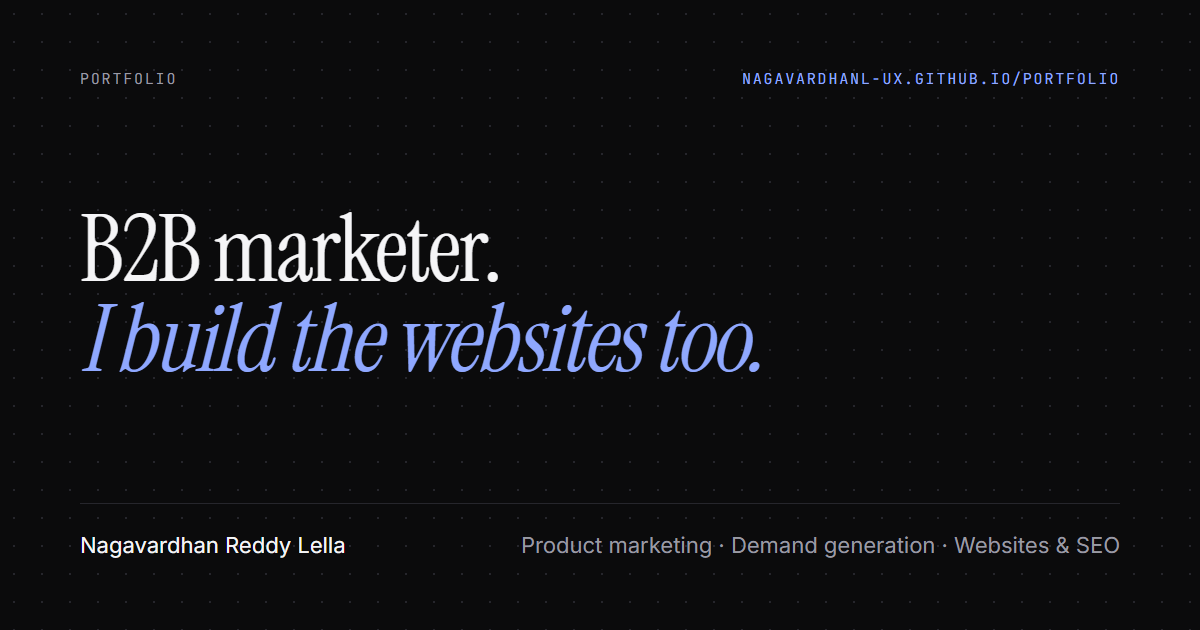
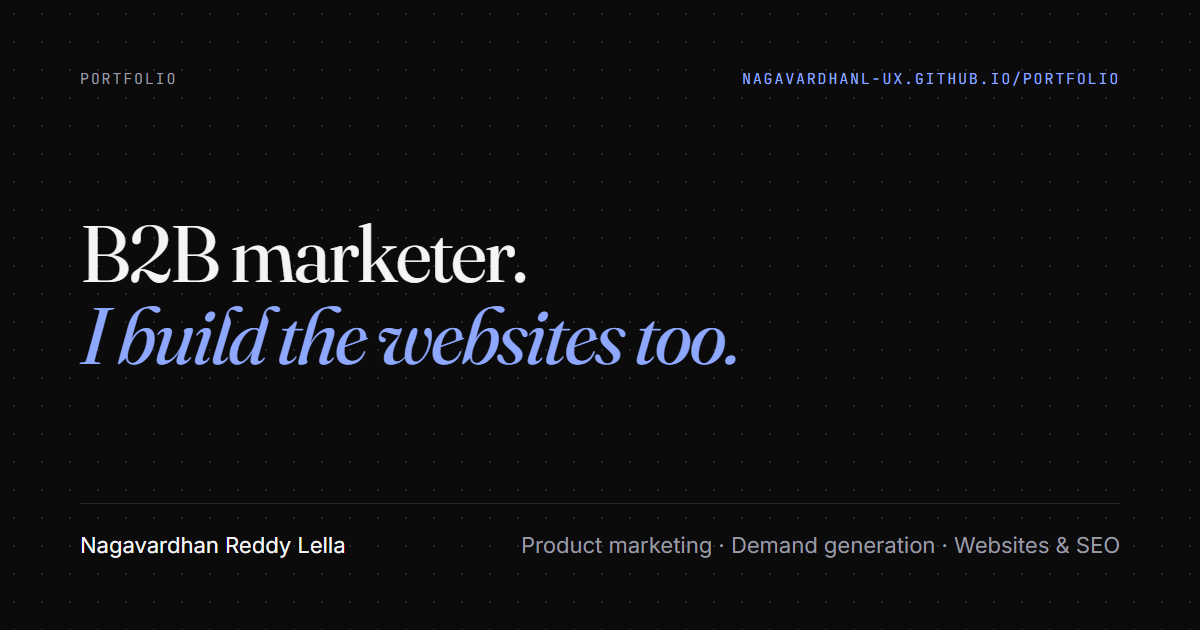
Fonts: Fraunces display, Inter body, JetBrains Mono numbers and labels
- Fraunces (variable, optical-size axis) for headings at 600, hero at 400;
  sizes retuned for its wider set; Georgia/serif fallback
- JetBrains Mono for markers, tags and large numerals; Inter unchanged
- All three via next/font (Google Fonts, self-hosted at build, swap)
- OG image regenerated in Fraunces
- Hide the wordmark suffix under 480px so the nav fits at 390px

Changed region(s): [[0.0617, 0.4825, 0.6475, 0.6032], [0.0617, 0.3317, 0.4625, 0.4524]]

diff --git a/src/app/globals.css b/src/app/globals.css
@@ -24,7 +24,7 @@
   --success: #7ee2a8;
   --danger: #ff8f8f;
 
-  --font-display: var(--font-instrument), "Times New Roman", serif;
+  --font-display: var(--font-fraunces), Georgia, "Times New Roman", serif;
   --font-body: var(--font-inter), system-ui, -apple-system, "Segoe UI", sans-serif;
   --font-mono: var(--font-jetbrains), ui-monospace, "SFMono-Regular", Menlo, monospace;
 
@@ -221,39 +221,45 @@ a {
    Type
    ========================================================================== */
 
-.display {
+/* Fraunces is variable with an optical-size axis; font-optical-sizing: auto picks
+   the high-opsz cut for big headings. Sizes are tuned to Fraunces' wider set. */
+.display,
+.h1,
+.h2,
+.h3 {
   font-family: var(--font-display);
-  font-weight: 400;
-  font-size: clamp(3.1rem, 9vw, 9rem);
-  line-height: 0.94;
-  letter-spacing: -0.025em;
+  font-optical-sizing: auto;
   text-wrap: balance;
+}
+
+/* Very large hero text reads better a touch lighter. */
+.display {
+  font-weight: 400;
+  font-size: clamp(2.75rem, 7.4vw, 7.25rem);
+  line-height: 1;
+  letter-spacing: -0.03em;
 }
 
 .h1 {
-  font-family: var(--font-display);
-  font-weight: 400;
-  font-size: clamp(2.75rem, 7vw, 6.5rem);
-  line-height: 0.98;
-  letter-spacing: -0.022em;
-  text-wrap: balance;
+  font-weight: 600;
+  font-size: clamp(2.5rem, 5.8vw, 5.5rem);
+  line-height: 1.02;
+  letter-spacing: -0.028em;
 }
 
 .h2 {
-  font-family: var(--font-display);
-  font-weight: 400;
-  font-size: clamp(2.25rem, 5vw, 4.5rem);
-  line-height: 1;
-  letter-spacing: -0.02em;
-  text-wrap: balance;
+  font-weight: 600;
+  font-size: clamp(2rem, 4.2vw, 3.75rem);
+  line-height: 1.05;
+  letter-spacing: -0.024em;
 }
 
 .h3 {
-  font-family: var(--font-display);
-  font-weight: 400;
-  font-size: clamp(1.625rem, 2.6vw, 2.25rem);
-  line-height: 1.08;
-  letter-spacing: -0.012em;
+  font-weight: 600;
+  font-size: clamp(1.375rem, 2.1vw, 1.875rem);
+  line-height: 1.12;
+  letter-spacing: -0.016em;
+  text-wrap: pretty;
 }
 
 .h4 {
@@ -588,10 +594,21 @@ a {
   align-items: baseline;
   gap: 10px;
   font-family: var(--font-display);
-  font-size: 1.5rem;
+  font-weight: 600;
+  font-size: 1.375rem;
   line-height: 1;
   letter-spacing: -0.01em;
   white-space: nowrap;
+}
+
+@media (max-width: 479px) {
+  .wordmark span {
+    display: none;
+  }
+}
+
+.wordmark {
+  min-width: 0;
 }
 
 .wordmark span {
@@ -726,7 +743,8 @@ a {
   padding: 18px 0;
   border-bottom: 1px solid var(--hairline);
   font-family: var(--font-display);
-  font-size: 2rem;
+  font-weight: 500;
+  font-size: 1.75rem;
   line-height: 1.1;
 }
 
@@ -952,7 +970,9 @@ a {
 }
 
 .figure__value {
-  font-family: var(--font-display);
+  font-family: var(--font-mono);
+  font-weight: 300;
+  letter-spacing: -0.04em;
   font-size: clamp(3.5rem, 6vw, 5.5rem);
   line-height: 0.85;
   color: var(--ice);
@@ -2289,7 +2309,7 @@ a.card:hover .card__more svg {
 
 .contact-list a strong {
   font-family: var(--font-display);
-  font-weight: 400;
+  font-weight: 500;
   font-size: clamp(1.375rem, 2.4vw, 1.875rem);
   line-height: 1.15;
   overflow-wrap: anywhere;
@@ -2670,7 +2690,8 @@ textarea.input {
 }
 
 .cap__index {
-  font-family: var(--font-display);
+  font-family: var(--font-mono);
+  font-weight: 300;
   font-size: clamp(4rem, 9vw, 7.5rem);
   line-height: 0.8;
   color: var(--hairline-strong);
@@ -2780,7 +2801,8 @@ textarea.input {
 }
 
 .panel__num {
-  font-family: var(--font-display);
+  font-family: var(--font-mono);
+  font-weight: 300;
   font-size: 1.75rem;
   line-height: 1;
   color: var(--text-2);

diff --git a/src/app/layout.tsx b/src/app/layout.tsx
@@ -1,5 +1,5 @@
 import type { Metadata, Viewport } from "next";
-import { Instrument_Serif, Inter, JetBrains_Mono } from "next/font/google";
+import { Fraunces, Inter, JetBrains_Mono } from "next/font/google";
 import AmbientField from "@/components/AmbientField";
 import Footer from "@/components/Footer";
 import Nav from "@/components/Nav";
@@ -7,13 +7,15 @@ import RevealObserver from "@/components/RevealObserver";
 import { asset, site } from "@/lib/config";
 import "./globals.css";
 
-// Self-hosted at build time by next/font: no third-party request at runtime,
+// Google Fonts, downloaded at build time by next/font and served from this site:
+// no third-party request (so no preconnect needed), font-display: swap, and
 // metric-matched fallbacks so text doesn't shift when the fonts arrive.
-const instrument = Instrument_Serif({
+// Fraunces is variable with the optical-size axis: big headings get the high-opsz cut.
+const fraunces = Fraunces({
   subsets: ["latin"],
-  weight: "400",
   style: ["normal", "italic"],
-  variable: "--font-instrument",
+  axes: ["opsz"],
+  variable: "--font-fraunces",
   display: "swap",
 });
 
@@ -25,10 +27,8 @@ const inter = Inter({
 
 const jetbrains = JetBrains_Mono({
   subsets: ["latin"],
-  weight: ["400"],
   variable: "--font-jetbrains",
   display: "swap",
-  preload: false,
 });
 
 export const metadata: Metadata = {
@@ -53,7 +53,7 @@ export default function RootLayout({ children }: Readonly<{ children: React.Reac
       lang="en"
       data-theme="dark"
       suppressHydrationWarning
-      className={`${instrument.variable} ${inter.variable} ${jetbrains.variable}`}
+      className={`${fraunces.variable} ${inter.variable} ${jetbrains.variable}`}
     >
       <head>
         <script dangerouslySetInnerHTML={{ __html: bootScript }} />

diff --git a/scripts/og.html b/scripts/og.html
@@ -4,7 +4,7 @@
     <meta charset="utf-8" />
     <link rel="preconnect" href="https://fonts.googleapis.com" />
     <link
-      href="https://fonts.googleapis.com/css2?family=Instrument+Serif&family=Inter:wght@400;500&family=JetBrains+Mono:wght@400&display=block"
+      href="https://fonts.googleapis.com/css2?family=Fraunces:ital,opsz,wght@0,9..144,400;1,9..144,400&family=Inter:wght@400;500&family=JetBrains+Mono:wght@400&display=block"
       rel="stylesheet"
     />
     <style>
@@ -23,7 +23,7 @@
       }
       .top { display: flex; justify-content: space-between; font: 15px/1 "JetBrains Mono", monospace; letter-spacing: 0.12em; text-transform: uppercase; color: #9a9aa3; }
       .top b { color: #8fa8ff; font-weight: 400; }
-      h1 { font: 400 92px/0.98 "Instrument Serif", serif; letter-spacing: -0.02em; max-width: 960px; }
+      h1 { font: 400 80px/1.02 "Fraunces", serif; font-optical-sizing: auto; letter-spacing: -0.03em; max-width: 1000px; }
       h1 em { color: #8fa8ff; }
       .rule { height: 1px; background: #26262c; margin-bottom: 28px; }
       .bottom { display: flex; justify-content: space-between; font-size: 22px; color: #9a9aa3; }
